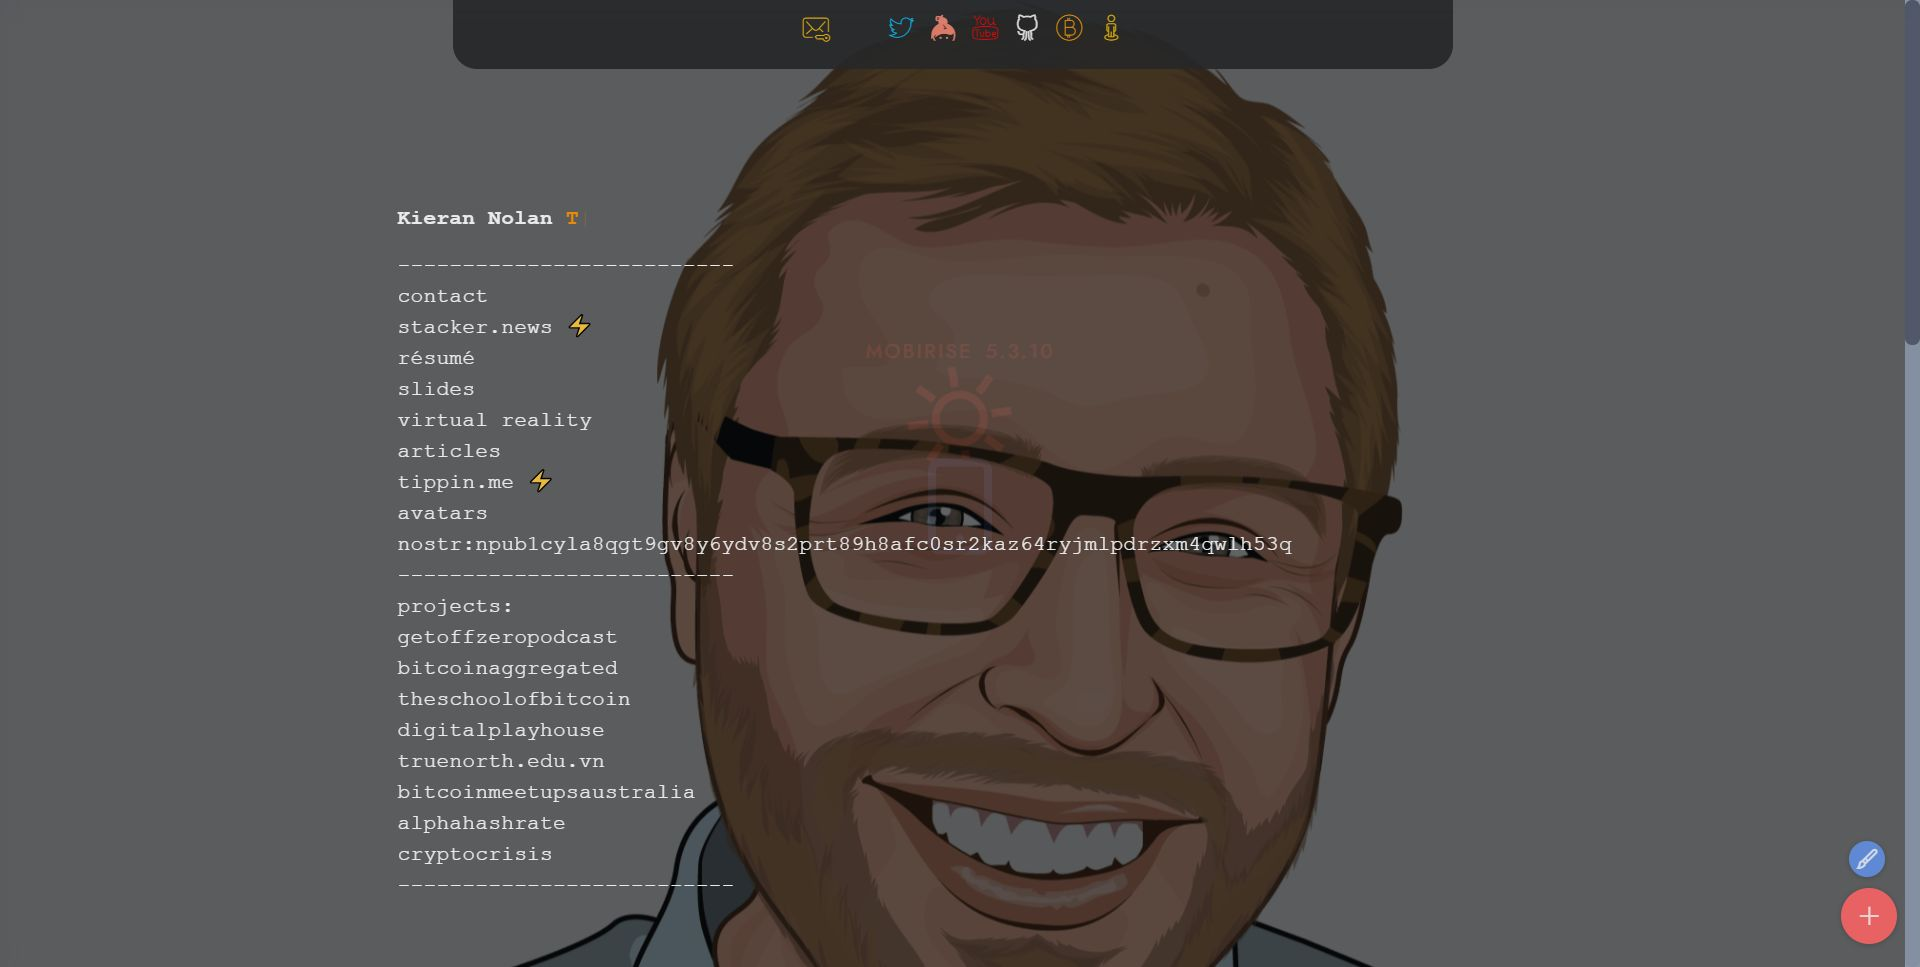
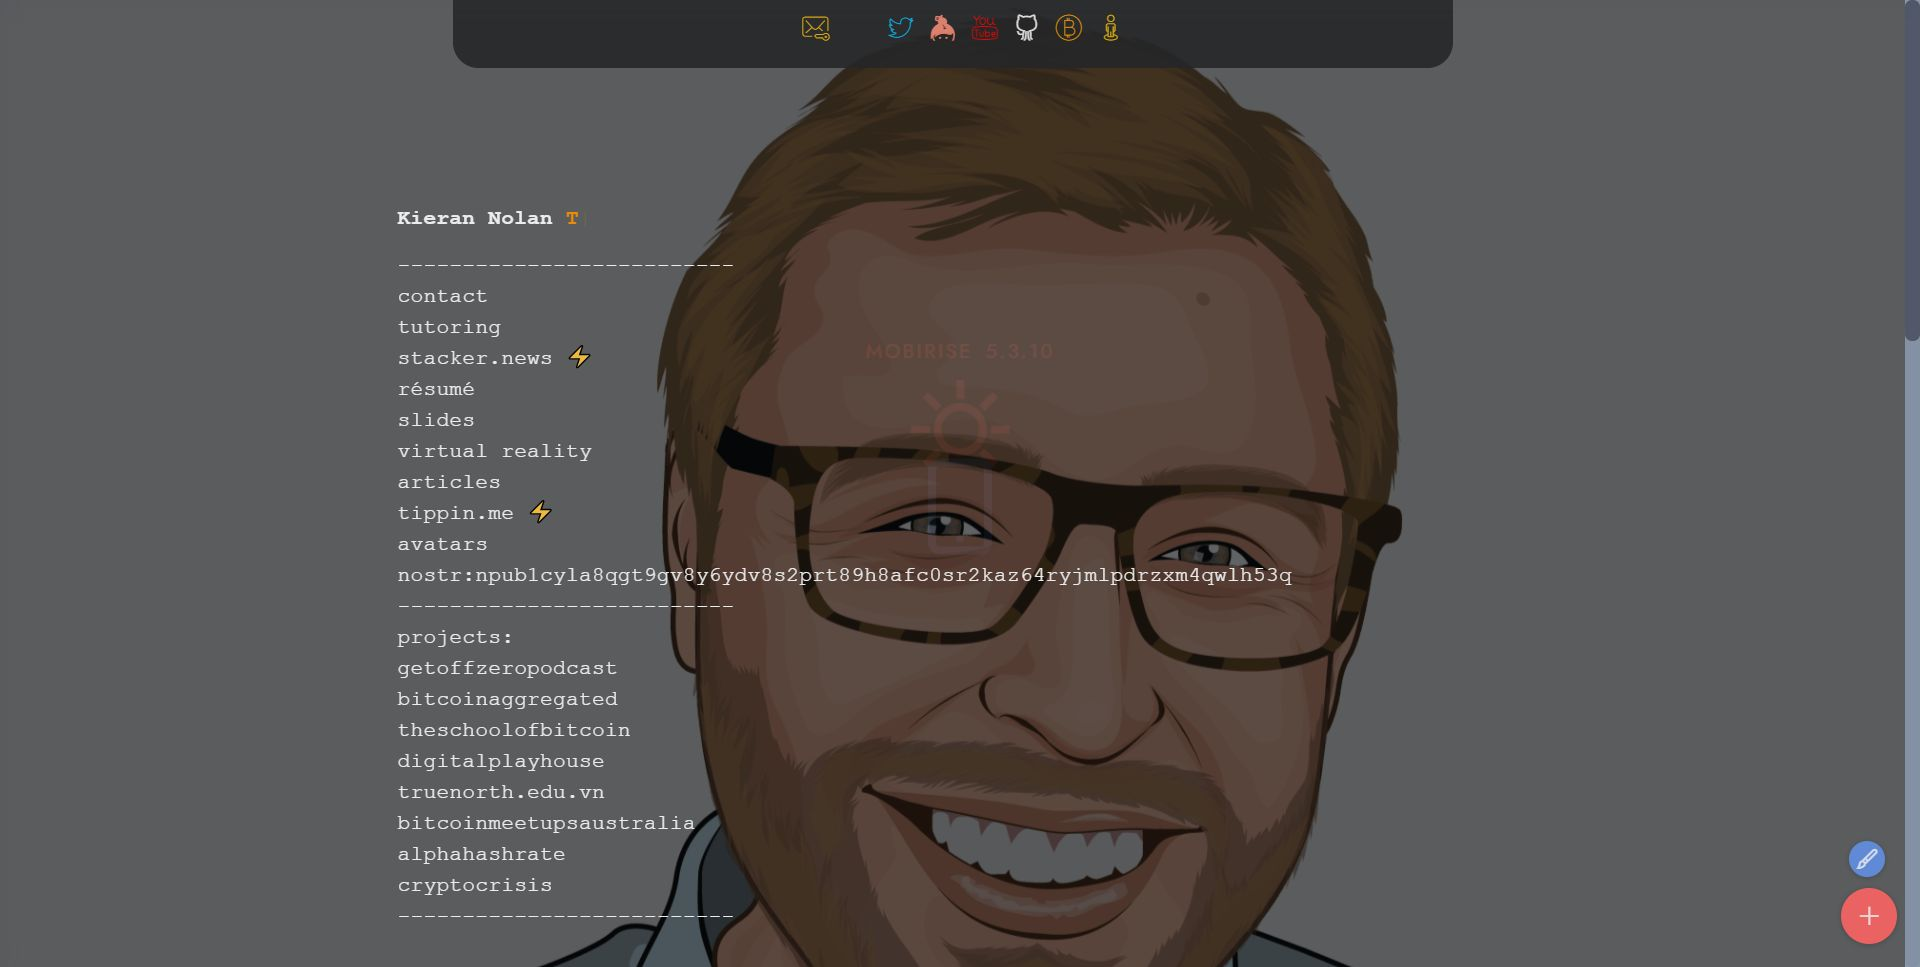
updates
updates

diff --git a/index.html b/index.html
@@ -22,9 +22,9 @@
   <link rel="stylesheet" href="assets/bootstrap/css/bootstrap-grid.min.css">
   <link rel="stylesheet" href="assets/bootstrap/css/bootstrap-reboot.min.css">
   <link rel="stylesheet" href="assets/animatecss/animate.min.css">
-    <link rel="stylesheet" href="assets/smart-cart/minicart-theme.css">
   <link rel="stylesheet" href="assets/popup-overlay-plugin/style.css">
-  <link rel="stylesheet" href="assets/dropdown/css/style.css">
+  <link rel="stylesheet" href="assets/smart-cart/minicart-theme.css">
+    <link rel="stylesheet" href="assets/dropdown/css/style.css">
   <link rel="stylesheet" href="assets/socicon/css/styles.css">
   <link rel="stylesheet" href="assets/theme/css/style.css">
   <link rel="stylesheet" href="assets/gallery/style.css">
@@ -104,7 +104,7 @@
                     </span>
                 </div>
                 <p class="mbr-section-text mbr-fonts-style display-5">--------------------------
-<br><a href="mailto:15s59m84y@mozmail.com" class="text-primary">contact&nbsp;</a><br><a href="page2.html" class="text-primary">tutoring</a><a href="mailto:15s59m84y@mozmail.com" class="text-primary"><br></a><a href="https://stacker.news/KieranDNolan/posts" class="text-primary" target="_blank">stacker.news ⚡<br></a><a href="https://docs.google.com/document/d/e/2PACX-1vSJ3lUSlqyzEbDo2WYMuaCoPWlIEa_Dltg2NgMmwRnxJEwSH9Kfty-wHGQbAZDOrDtfyUymXv8UziGx/pub" class="text-primary" target="_blank">résumé</a><br><a href="https://docs.google.com/presentation/d/17VgbEdmkydBphCaPF-fNZWcem_wUsqc7-zxOej7hY0I/edit?usp=sharing" class="text-primary" target="_blank">slides</a><br><strong><a href="VR.html" class="text-primary">virtual reality</a></strong><br><strong><a href="https://github.com/kdnolan/kdnolan.github.io/tree/master/articles" class="text-primary" target="_blank">articles</a></strong><br><strong><a href="https://tippin.me/@KieranDNolan" class="text-primary" target="_blank">tippin.me</a>&nbsp;</strong>⚡<br><a href="https://github.com/kdnolan/kdnolan.github.io/tree/master/avatars" class="text-primary" target="_blank">avatars</a><br><a href="https://astral.ninja/npub1cyla8qgt9gv8y6ydv8s2prt89h8afc0sr2kaz64ryjmlpdrzxm4qwlh53q" class="text-primary" target="_blank">nostr:npub1cyla8qgt9gv8y6ydv8s2prt89h8afc0sr2kaz64ryjmlpdrzxm4qwlh53q</a><br>--------------------------<br>projects:<br><a href="https://getoffzeropod.com/" class="text-primary" target="_blank">getoffzeropodcast</a><br>bitcoinaggregated<a href="https://getoffzeropod.com/" class="text-primary" target="_blank"><br></a><a href="https://theschoolofbitcoin.com/" class="text-primary" target="_blank">theschoolofbitcoin</a><br><a href="https://www.digitalplayhouse.com.au/digital-playhouse-foundation" class="text-primary" target="_blank">digitalplayhouse</a>&nbsp;<br><a href="http://truenorth.edu.vn/our-school" class="text-primary" target="_blank">truenorth.edu.vn<br></a><a href="https://btcma.org/" class="text-primary" target="_blank">bitcoinmeetupsaustralia</a><a href="https://www.digitalplayhouse.com.au/digital-playhouse-foundation" class="text-primary" target="_blank"><br></a><a href="https://alphahashrate.com/" class="text-primary" target="_blank">alphahashrate</a><br><a href="https://store.steampowered.com/app/1022320/Crypto_Crisis_Education_Edition/" class="text-primary" target="_blank">cryptocrisis</a><br>--------------------------
+<br><a href="mailto:15s59m84y@mozmail.com" class="text-primary">contact&nbsp;</a><br><a href="tutoring.html" class="text-primary">tutoring</a><a href="mailto:15s59m84y@mozmail.com" class="text-primary"><br></a><a href="https://stacker.news/KieranDNolan/posts" class="text-primary" target="_blank">stacker.news ⚡<br></a><a href="https://docs.google.com/document/d/e/2PACX-1vSJ3lUSlqyzEbDo2WYMuaCoPWlIEa_Dltg2NgMmwRnxJEwSH9Kfty-wHGQbAZDOrDtfyUymXv8UziGx/pub" class="text-primary" target="_blank">résumé</a><br><a href="https://docs.google.com/presentation/d/17VgbEdmkydBphCaPF-fNZWcem_wUsqc7-zxOej7hY0I/edit?usp=sharing" class="text-primary" target="_blank">slides</a><br><strong><a href="VR.html" class="text-primary">virtual reality</a></strong><br><strong><a href="https://github.com/kdnolan/kdnolan.github.io/tree/master/articles" class="text-primary" target="_blank">articles</a></strong><br><strong><a href="https://tippin.me/@KieranDNolan" class="text-primary" target="_blank">tippin.me</a>&nbsp;</strong>⚡<br><a href="https://github.com/kdnolan/kdnolan.github.io/tree/master/avatars" class="text-primary" target="_blank">avatars</a><br><a href="https://astral.ninja/npub1cyla8qgt9gv8y6ydv8s2prt89h8afc0sr2kaz64ryjmlpdrzxm4qwlh53q" class="text-primary" target="_blank">nostr:npub1cyla8qgt9gv8y6ydv8s2prt89h8afc0sr2kaz64ryjmlpdrzxm4qwlh53q</a><br>--------------------------<br>projects:<br><a href="https://getoffzeropod.com/" class="text-primary" target="_blank">getoffzeropodcast</a><br>bitcoinaggregated<a href="https://getoffzeropod.com/" class="text-primary" target="_blank"><br></a><a href="https://theschoolofbitcoin.com/" class="text-primary" target="_blank">theschoolofbitcoin</a><br><a href="https://www.digitalplayhouse.com.au/digital-playhouse-foundation" class="text-primary" target="_blank">digitalplayhouse</a>&nbsp;<br><a href="http://truenorth.edu.vn/our-school" class="text-primary" target="_blank">truenorth.edu.vn<br></a><a href="https://btcma.org/" class="text-primary" target="_blank">bitcoinmeetupsaustralia</a><a href="https://www.digitalplayhouse.com.au/digital-playhouse-foundation" class="text-primary" target="_blank"><br></a><a href="https://alphahashrate.com/" class="text-primary" target="_blank">alphahashrate</a><br><a href="https://store.steampowered.com/app/1022320/Crypto_Crisis_Education_Edition/" class="text-primary" target="_blank">cryptocrisis</a><br>--------------------------
 <br><br><br><strong><a href="http://rocketshoes.io" class="text-primary" target="_blank"><br></a></strong><br><strong><a href="http://rocketshoes.io" class="text-primary" target="_blank"><br></a></strong><a href="http://kdnolan.hns.to" class="text-primary" target="_blank" style=""><br></a><br></p>
                 
             </div>
@@ -323,9 +323,9 @@
   <script src="assets/bootstrap/js/bootstrap.min.js"></script>
   <script src="assets/smoothscroll/smooth-scroll.js"></script>
   <script src="assets/viewportchecker/jquery.viewportchecker.js"></script>
-      <script src="assets/smart-cart/minicart.js"></script>
+  <script src="assets/smart-cart/minicart.js"></script>
   <script src="assets/smart-cart/minicart-customizer.js"></script>
-  <script src="assets/dropdown/js/nav-dropdown.js"></script>
+      <script src="assets/dropdown/js/nav-dropdown.js"></script>
   <script src="assets/dropdown/js/navbar-dropdown.js"></script>
   <script src="assets/touchswipe/jquery.touch-swipe.min.js"></script>
   <script src="assets/typed/typed.min.js"></script>

diff --git a/music.html b/music.html
@@ -16,8 +16,8 @@
   <link rel="stylesheet" href="assets/bootstrap/css/bootstrap-grid.min.css">
   <link rel="stylesheet" href="assets/bootstrap/css/bootstrap-reboot.min.css">
   <link rel="stylesheet" href="assets/animatecss/animate.min.css">
-      <link rel="stylesheet" href="assets/popup-overlay-plugin/style.css">
-  <link rel="stylesheet" href="assets/theme/css/style.css">
+  <link rel="stylesheet" href="assets/popup-overlay-plugin/style.css">
+      <link rel="stylesheet" href="assets/theme/css/style.css">
   <link rel="preload" href="https://fonts.googleapis.com/css?family=VT323:400&display=swap" as="style" onload="this.onload=null;this.rel='stylesheet'">
   <noscript><link rel="stylesheet" href="https://fonts.googleapis.com/css?family=VT323:400&display=swap"></noscript>
   <link rel="preload" as="style" href="assets/mobirise/css/mbr-additional.css"><link rel="stylesheet" href="assets/mobirise/css/mbr-additional.css" type="text/css">

diff --git a/VR.html b/VR.html
@@ -20,8 +20,8 @@
   <link rel="stylesheet" href="assets/bootstrap/css/bootstrap-grid.min.css">
   <link rel="stylesheet" href="assets/bootstrap/css/bootstrap-reboot.min.css">
   <link rel="stylesheet" href="assets/animatecss/animate.min.css">
-      <link rel="stylesheet" href="assets/popup-overlay-plugin/style.css">
-  <link rel="stylesheet" href="assets/dropdown/css/style.css">
+  <link rel="stylesheet" href="assets/popup-overlay-plugin/style.css">
+      <link rel="stylesheet" href="assets/dropdown/css/style.css">
   <link rel="stylesheet" href="assets/socicon/css/styles.css">
   <link rel="stylesheet" href="assets/theme/css/style.css">
   <link rel="preload" href="https://fonts.googleapis.com/css?family=VT323:400&display=swap" as="style" onload="this.onload=null;this.rel='stylesheet'">

diff --git a/tutoring.html b/tutoring.html
@@ -20,8 +20,8 @@
   <link rel="stylesheet" href="assets/bootstrap/css/bootstrap-grid.min.css">
   <link rel="stylesheet" href="assets/bootstrap/css/bootstrap-reboot.min.css">
   <link rel="stylesheet" href="assets/animatecss/animate.min.css">
-      <link rel="stylesheet" href="assets/popup-overlay-plugin/style.css">
-  <link rel="stylesheet" href="assets/dropdown/css/style.css">
+  <link rel="stylesheet" href="assets/popup-overlay-plugin/style.css">
+      <link rel="stylesheet" href="assets/dropdown/css/style.css">
   <link rel="stylesheet" href="assets/socicon/css/styles.css">
   <link rel="stylesheet" href="assets/theme/css/style.css">
   <link rel="preload" href="https://fonts.googleapis.com/css?family=VT323:400&display=swap" as="style" onload="this.onload=null;this.rel='stylesheet'">
